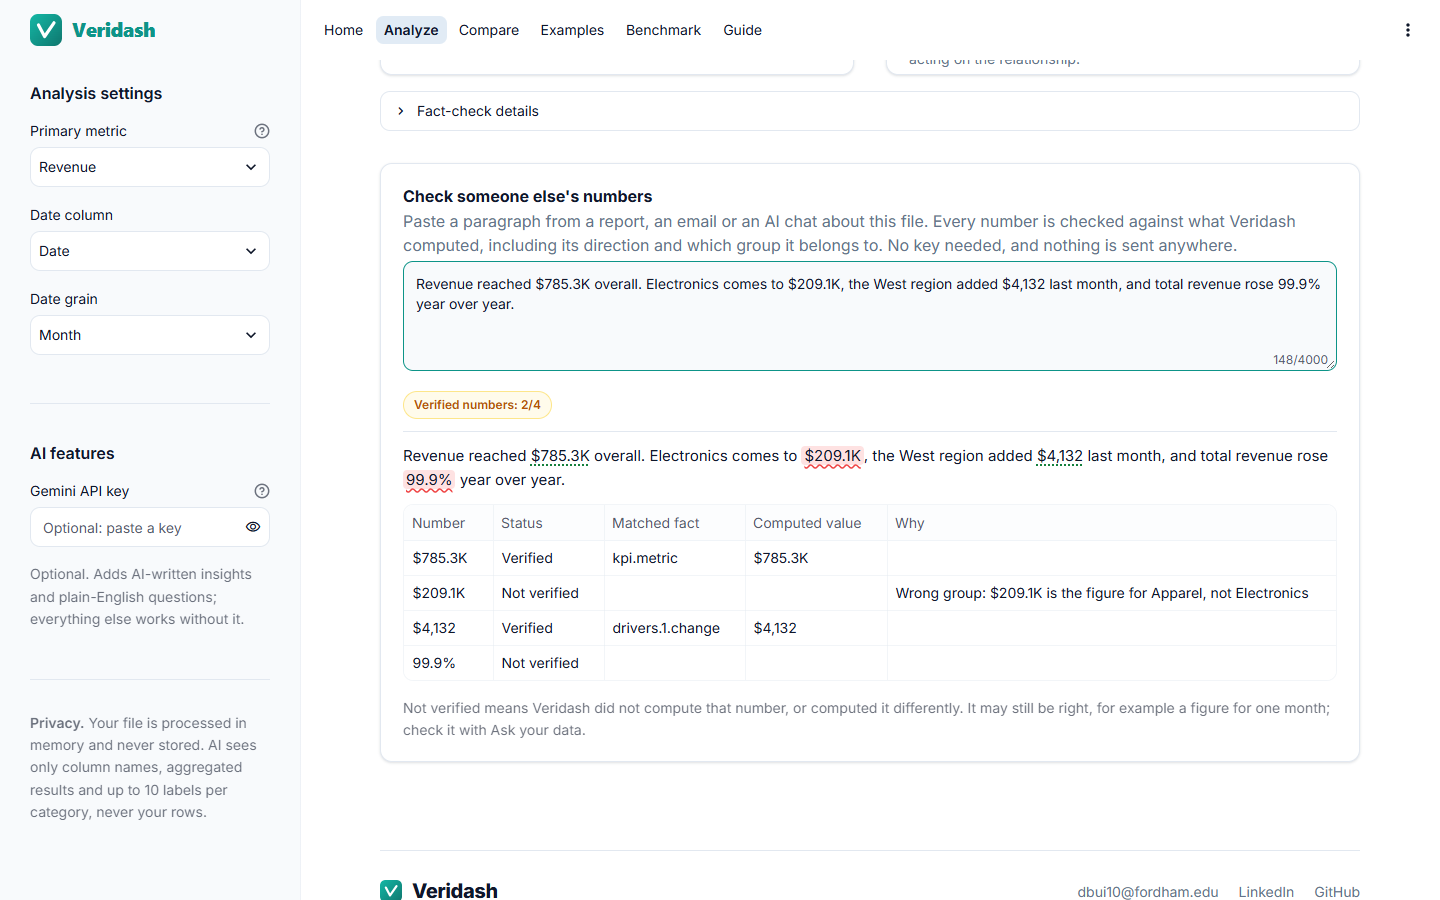
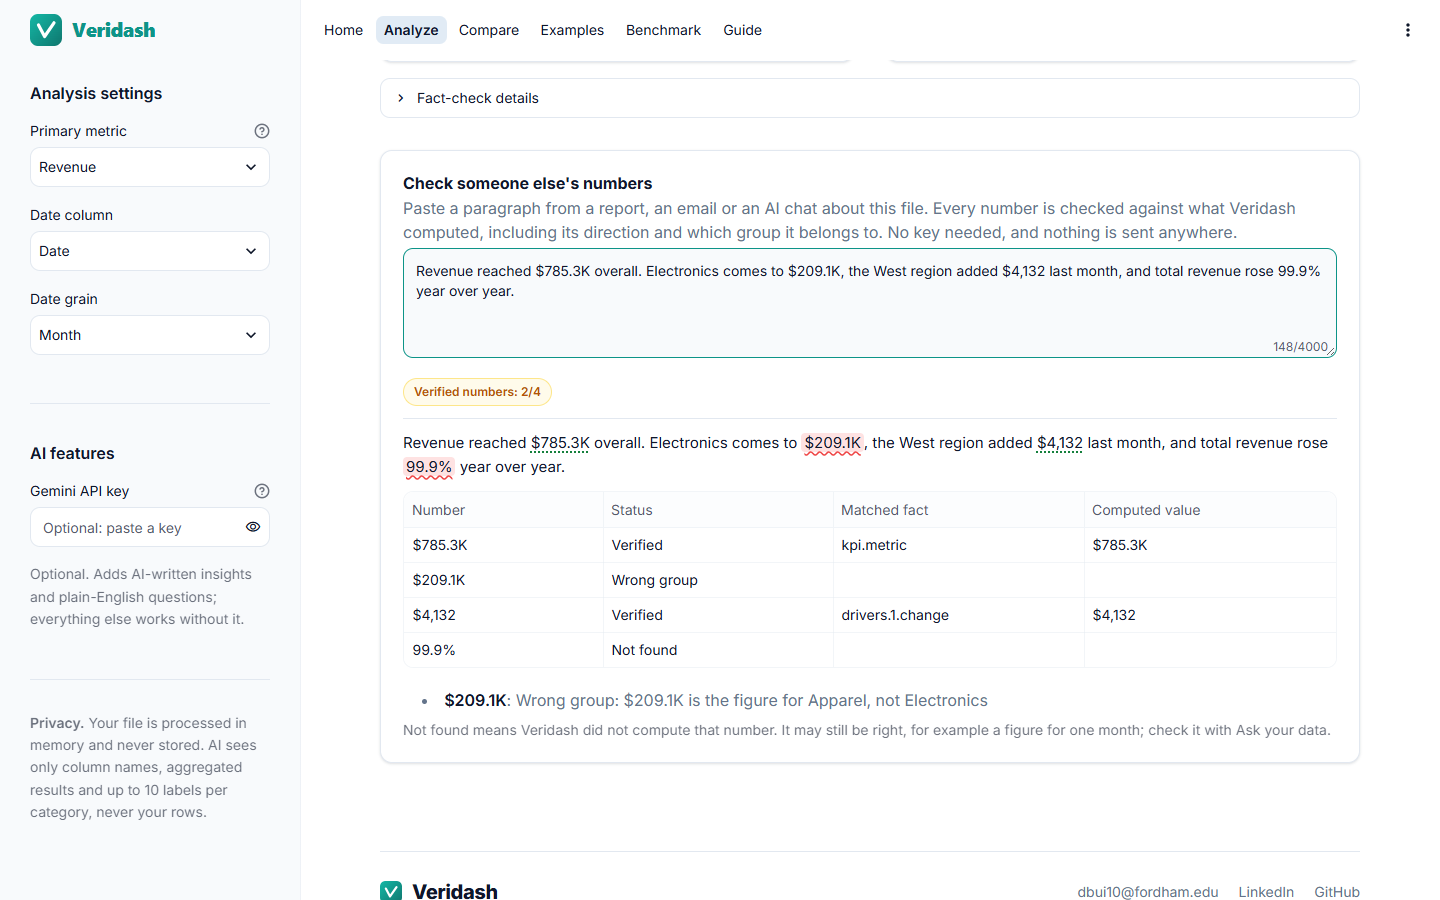
fix(insights): show why a pasted number failed without cutting it off
The checker table now shows a short status (Verified, Wrong group, Wrong
direction, Not found) and lists each full reason under the table, where
long reasons are no longer truncated. The not-found note appears only when
a number was not found.

diff --git a/ui/tabs/insights_tab.py b/ui/tabs/insights_tab.py
@@ -206,17 +206,19 @@ def check_any_text(pack: FactPack, cache_key: str) -> None:
             [
                 {
                     "Number": c.raw,
-                    "Status": "Verified" if c.verified else "Not verified",
+                    "Status": "Verified" if c.verified else (c.reason.split(":", 1)[0] if c.reason else "Not found"),
                     "Matched fact": c.fact_id or "",
                     "Computed value": facts[c.fact_id].display if c.fact_id in facts else "",
-                    "Why": "" if c.verified else (c.reason or "Not found among the computed numbers"),
                 }
                 for c in claims
             ],
             hide_index=True,
         )
-        if ok < len(claims):
+        reasons = [f"<li><b>{esc(c.raw)}</b>: {esc(c.reason)}</li>" for c in claims if not c.verified and c.reason]
+        if reasons:
+            st.markdown(f"<ul class='vd-reasons'>{''.join(reasons)}</ul>", unsafe_allow_html=True)
+        if any(not c.verified and not c.reason for c in claims):
             st.caption(
-                "Not verified means Veridash did not compute that number, or computed it differently. It may still "
-                "be right, for example a figure for one month; check it with Ask your data."
+                "Not found means Veridash did not compute that number. It may still be right, for example a figure "
+                "for one month; check it with Ask your data."
             )

diff --git a/ui/theme.py b/ui/theme.py
@@ -389,6 +389,10 @@ table.vd-table td.num { text-align: right; font-variant-numeric: tabular-nums; }
   font-variant-numeric: tabular-nums; }
 .vd-proof span { display: block; color: var(--vd-muted); font-size: 14px; line-height: 1.4; margin-top: 2px; }
 
+.vd-reasons { margin: 4px 0 6px 0 !important; padding-left: 18px !important; color: var(--vd-muted);
+  font-size: 14px; }
+.vd-reasons b { color: var(--vd-text); }
+
 /* Empty and locked states */
 .vd-locked { text-align: center; padding: 36px 20px; border: 1px dashed var(--vd-faint); border-radius: var(--vd-radius);
   background: var(--vd-subtle); }

diff --git a/tests/test_app.py b/tests/test_app.py
@@ -99,5 +99,6 @@ def test_check_any_text_on_the_insights_tab():
     assert not at.exception, at.exception
     html = " ".join(m.value for m in at.markdown)
     assert "Verified numbers: 1/3" in html
-    table = next(d.value for d in at.dataframe if "Why" in d.value.columns)
-    assert "Wrong group" in " ".join(table["Why"])
+    table = next(d.value for d in at.dataframe if "Computed value" in d.value.columns)
+    assert list(table["Status"]) == ["Wrong group", "Verified", "Not found"]
+    assert "is the figure for Apparel, not Electronics" in html
